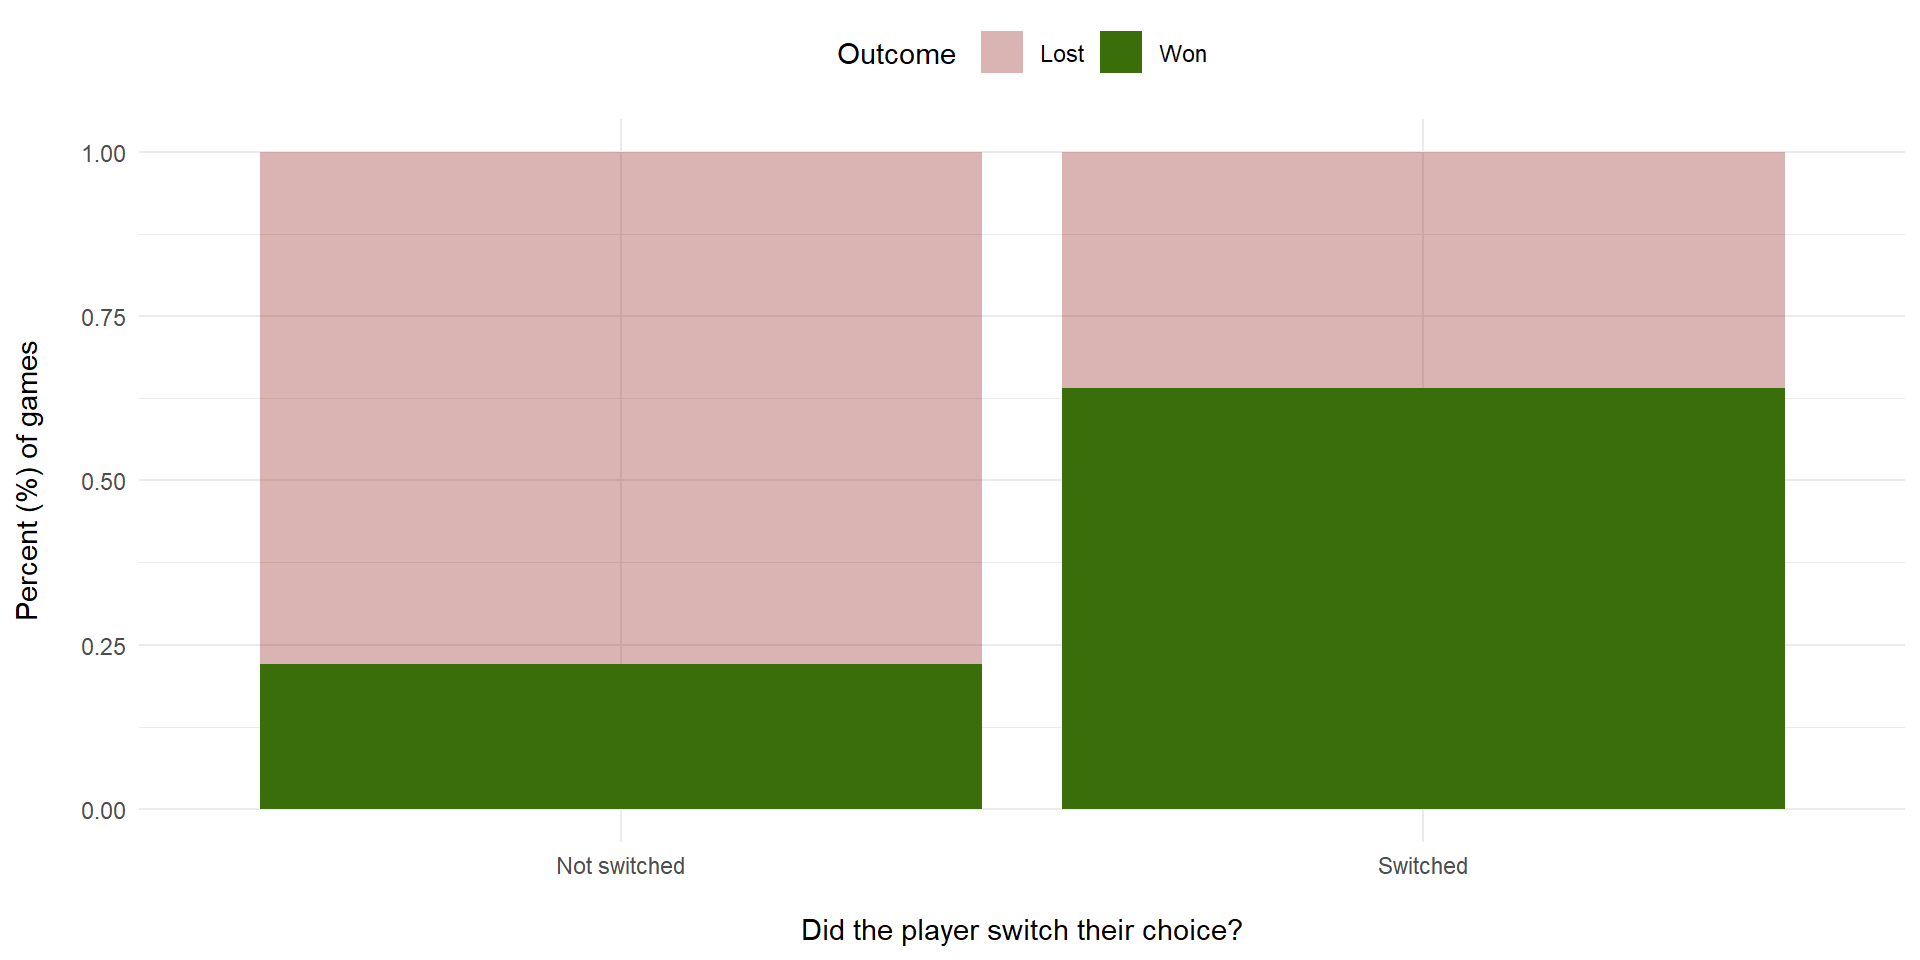
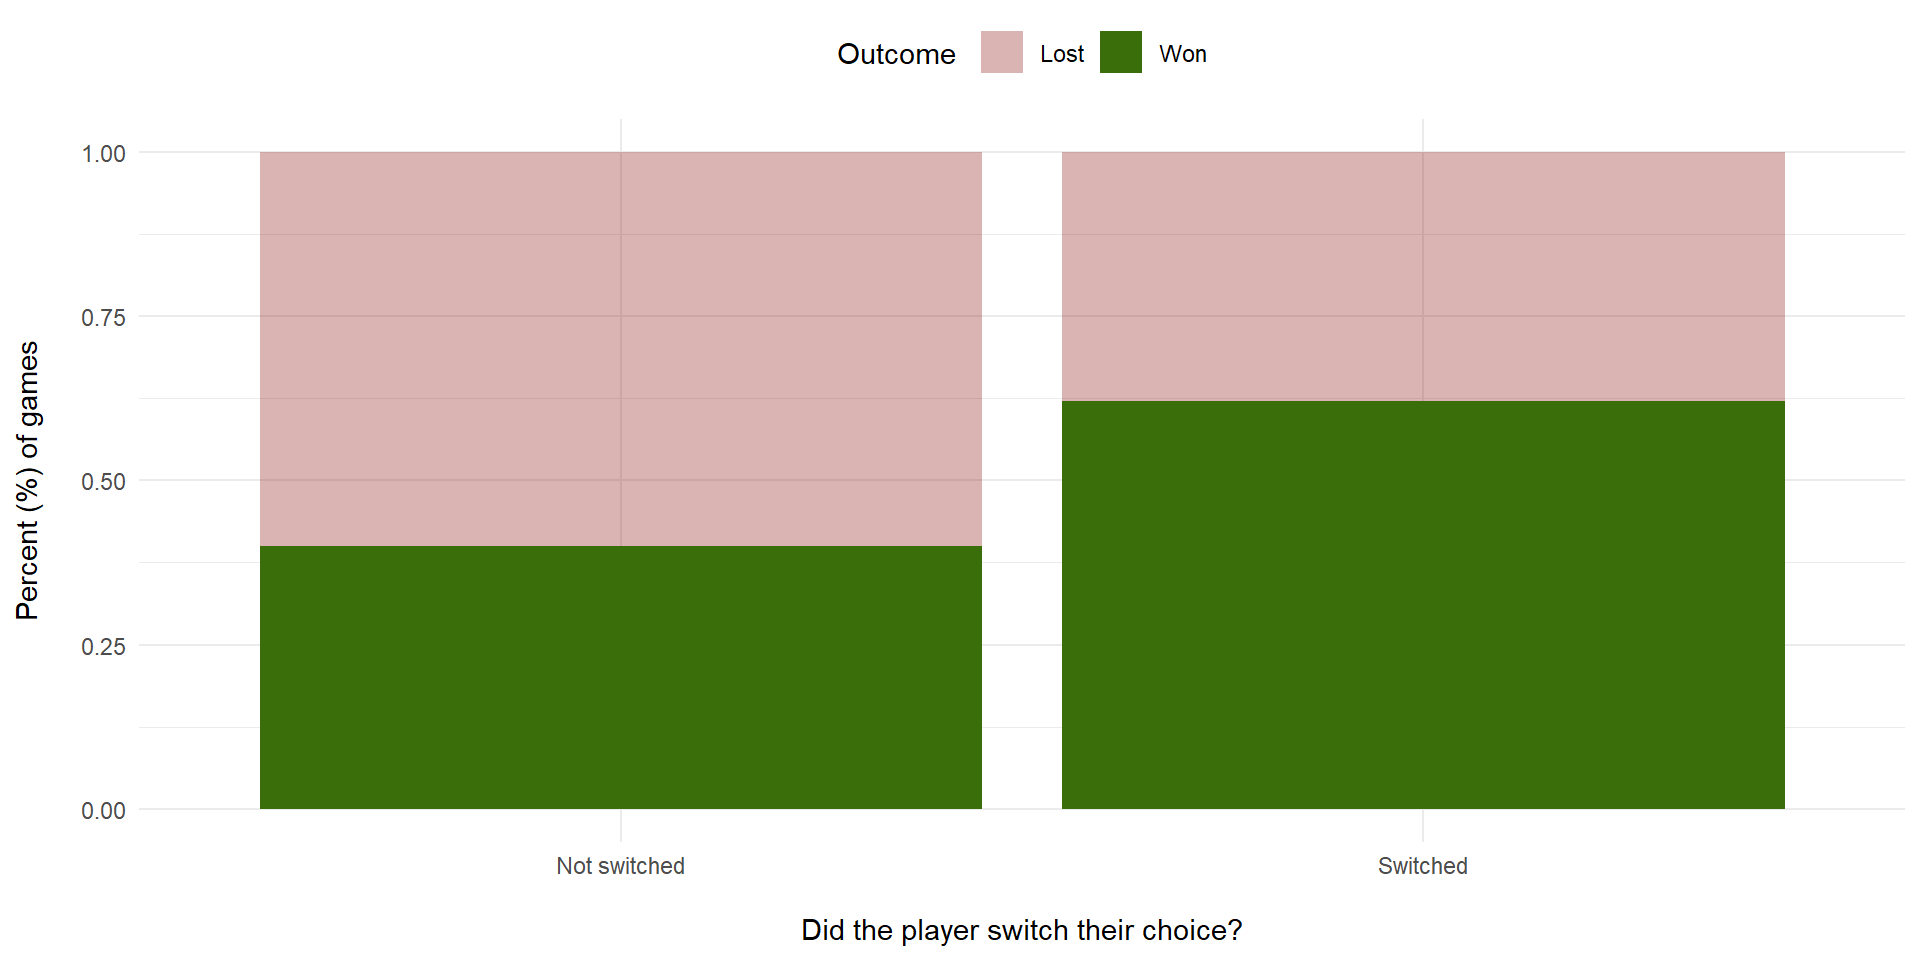
add

Changed region(s): [[0.125, 0.5625, 0.5312, 0.7188], [0.5312, 0.4062, 0.9375, 0.4375]]

diff --git a/slides/hss8005_w8_conclusions.html b/slides/hss8005_w8_conclusions.html
@@ -412,6 +412,9 @@
       margin-bottom: 2.5rem
     }
   </style>
+<link href="../site_libs/htmltools-fill-0.5.8.1/fill.css" rel="stylesheet">
+<script src="../site_libs/htmlwidgets-1.6.4/htmlwidgets.js"></script><script src="../site_libs/viz-1.8.2/viz.js"></script><link href="../site_libs/DiagrammeR-styles-0.2/styles.css" rel="stylesheet">
+<script src="../site_libs/grViz-binding-1.0.11/grViz.js"></script>
 </head>
 <body class="quarto-light">
   <div class="reveal">
@@ -746,6 +749,13 @@ p.course-button a:hover {
 <p><img data-src="conclusions/pics/enumeration-empty.png"></p>
 </section><section id="enumeration-1" class="slide level2"><h2>Enumeration</h2>
 <p><img data-src="conclusions/pics/enumeration.png"></p>
+</section><section id="causal-graphs" class="slide level2"><h2>Causal graphs</h2>
+<div class="cell">
+<div class="cell-output-display">
+<div class="grViz html-widget html-fill-item" id="htmlwidget-ad595fcd5c13628d58bd" style="width:960px;height:480px;"></div>
+<script type="application/json" data-for="htmlwidget-ad595fcd5c13628d58bd">{"x":{"diagram":"\ndigraph {\n  graph []\n  node [shape = plaintext]\n    A [label = \"First choice\"]\n    B [label = \"Door with chocolate\"]\n    C [label = \"Revealed door\"]\n  edge []\n    A->C\n    B->C\n}\n","config":{"engine":"dot","options":null}},"evals":[],"jsHooks":[]}</script>
+</div>
+</div>
 </section><section id="bayesian-reasoning" class="slide level2"><h2>Bayesian reasoning</h2>
 <div class="columns">
 <div class="column" style="width:60%;">
